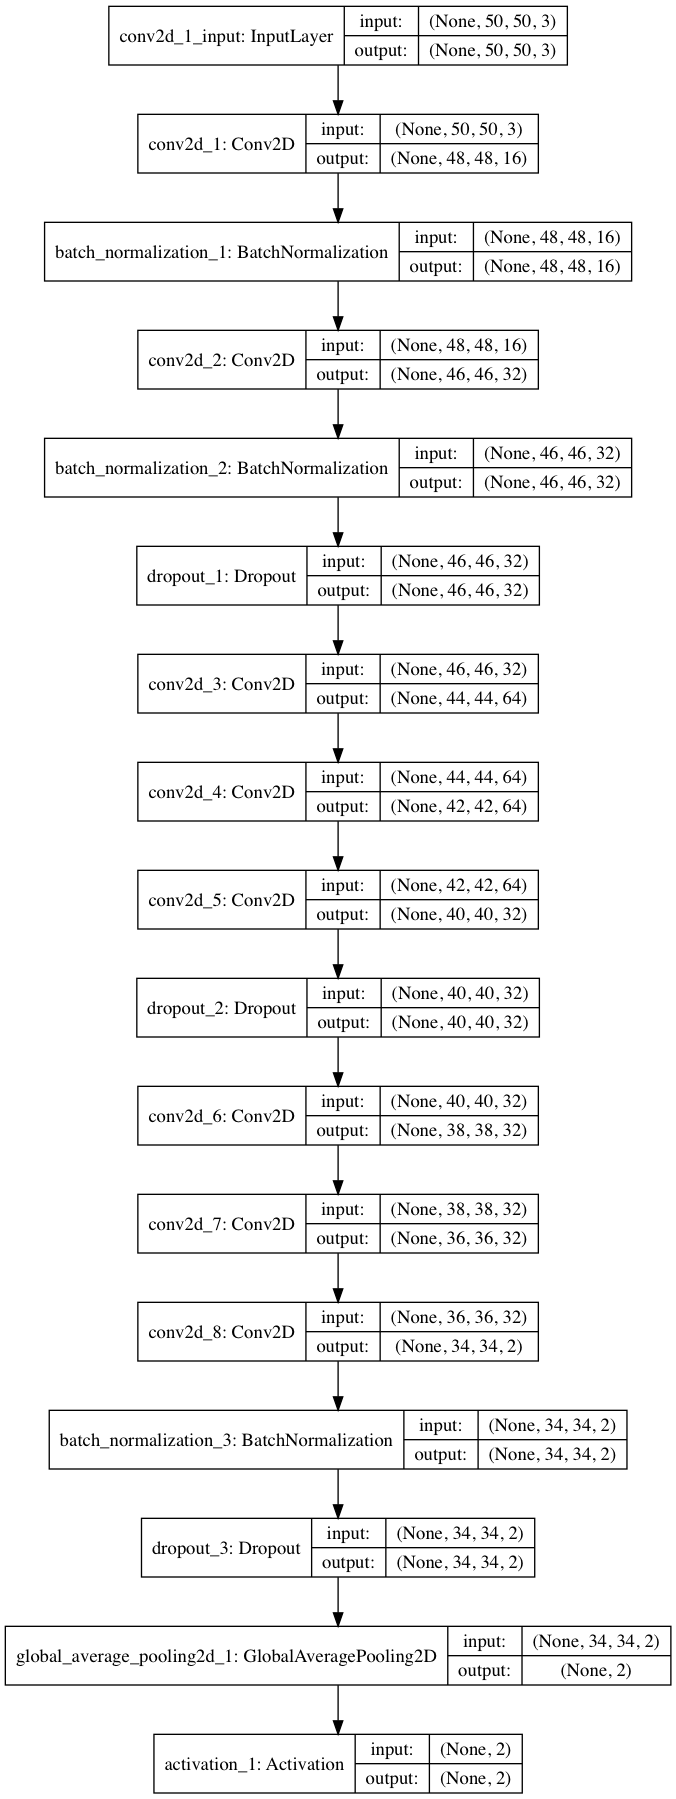
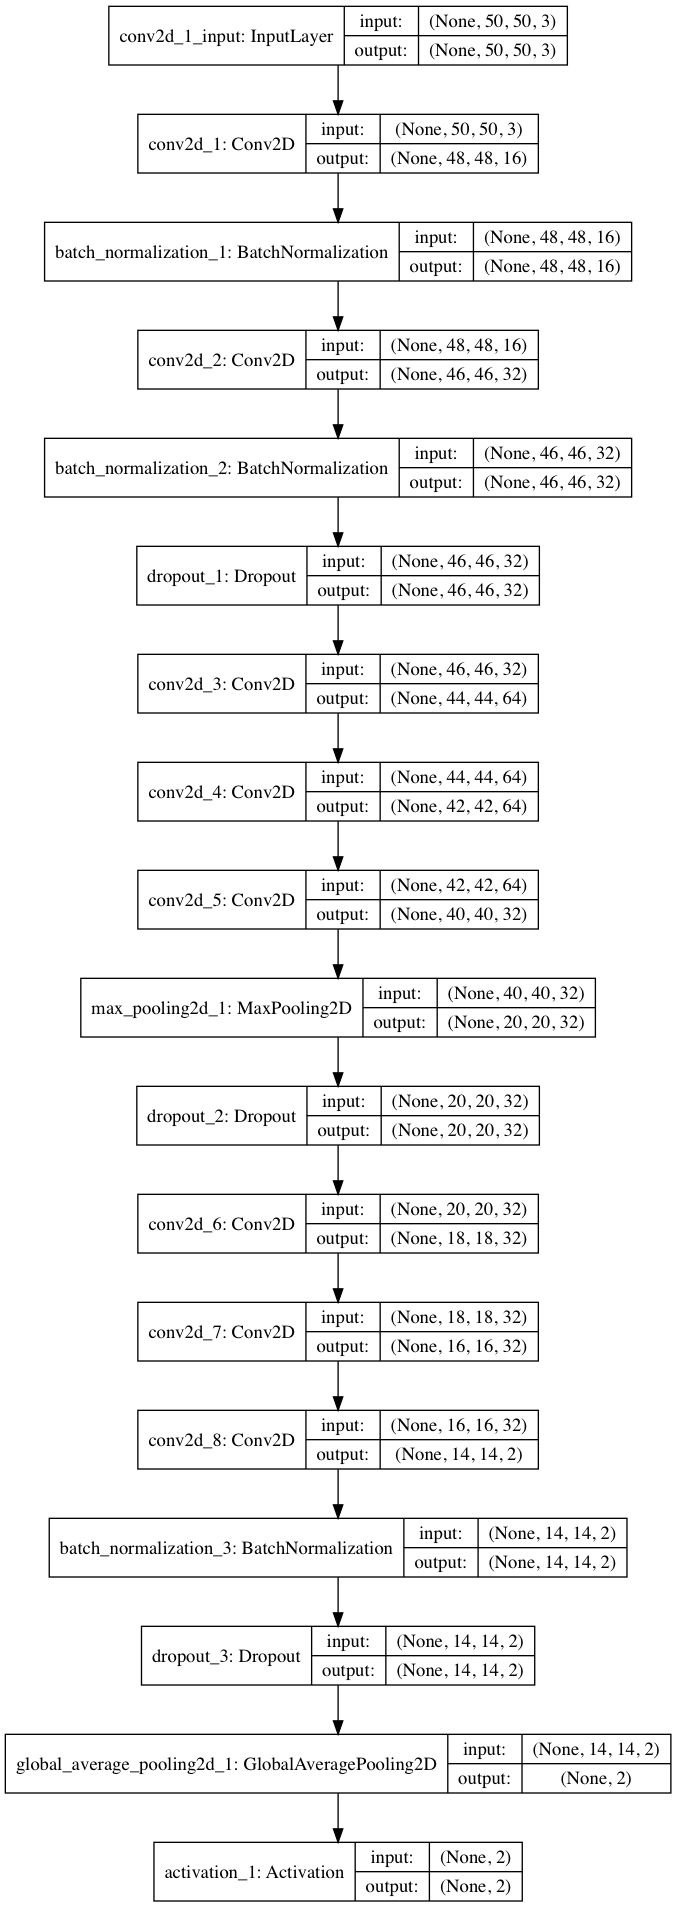
[fix]modelにmax poolingを追加

Changed region(s): [[0.0, 0.0, 0.9941, 1.0]]

diff --git a/report/main.tex b/report/main.tex
@@ -25,13 +25,34 @@
 しかし、我々日本人は微妙な違いを見分けかなりの精度でこれらの国を見分けることができる。
 このタスクを機械が同様の精度で行うことができれば様々な場所で活躍できると考えられる。
 例えば、液晶に映る日本語と外国語の表示切り替えを前に立っている外国人の数等で、
-時間配分を帰ることが可能であると考えている。
+時間配分を変えることが可能であると考えている。
 よって、今回は日本人か外国人かの判定をCNNに行わせることとする。
 
 
 \section{利用した手法の概要と工夫点}
-モデルのアーキテクチャとしては基本的にAlexNetのものを用いる。
+モデルのアーキテクチャとしては基本的にAlexNetのものを用いるところから始めた。
 ただし、$50\times50$の画像を入力するため、次元数は異なる。
+
+まずは画像データについて、正規化するために255で割ることで0から1の浮動小数点とした。
+また、全ての画素値の平均と分散を求め、
+
+\begin{equation}
+  \frac{data - mean}{std}
+\end{equation}
+
+とすることで標準化を行った。
+
+次にデータオーギュメンテーションを行った。
+画像を水平に移動させるものと、画像を水平に反転させるものの二種類のデータ拡張の手法を用いた。
+
+モデルについては、AlexNetをベースにしたが、
+次元が減ることが不利になるのではないかと考え、MaxPooling層を削った。
+Max Pooling層の代わりにConvolution層を増やした。
+また、学習をしていく上で、常にヴァリデーションデータとトレインデータのロスの差が
+大きかったことから、過学習を抑制できていないと考えられたため、
+Dropoutの層を増やした。
+最後の全結合については、データを単に平滑化すると重みの数が増えるため、
+Global Average Polling層を用いて1次元データにした。
 
 
 \section{利用したデータ}

diff --git a/src/model.py b/src/model.py
@@ -11,7 +11,7 @@ from keras.layers import Conv2D
 from keras.layers import Dropout
 # from keras.layers import Flatten
 from keras.layers import GlobalAveragePooling2D
-# from keras.layers import MaxPooling2D
+from keras.layers import MaxPooling2D
 from keras.layers.normalization import BatchNormalization
 from keras.models import model_from_json
 from keras.models import Sequential
@@ -84,7 +84,7 @@ class Foreigner_classifier():
                               activation="relu"))
         self.model.add(Conv2D(filters=32, kernel_size=3, padding="valid",
                               activation="relu"))
-        # self.model.add(MaxPooling2D(pool_size=2))
+        self.model.add(MaxPooling2D(pool_size=2))
         self.model.add(Dropout(0.5))
 
         self.model.add(Conv2D(filters=32, kernel_size=3, padding="valid",

diff --git a/src/train.py b/src/train.py
@@ -64,6 +64,7 @@ def main():
     print(args)
     foreign_clf = Foreigner_classifier(args.input_dir_path)
     foreign_clf.make_model()
+    # foreign_clf.make_model_from_pre_trained("../data/model")
     plot_model(foreign_clf.model,
                to_file="../data/model.png", show_shapes=True)
     foreign_clf.train_aug_img_model()
